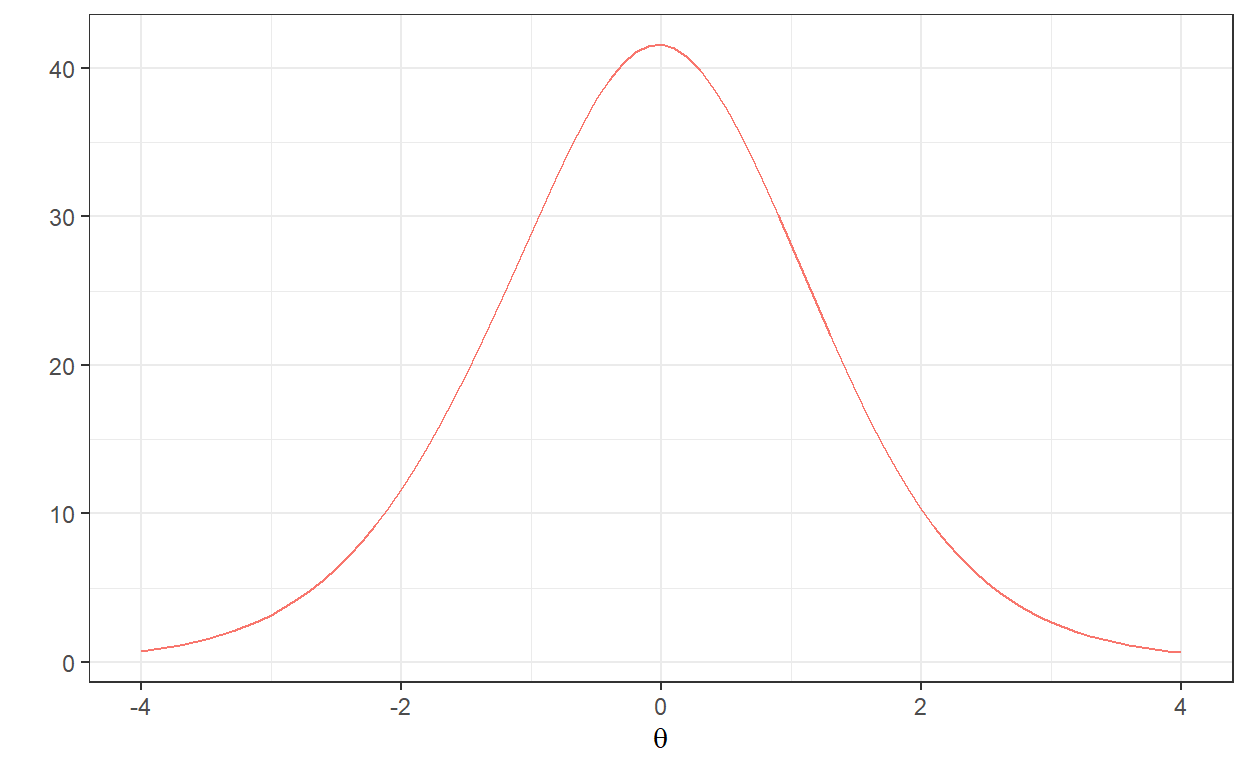
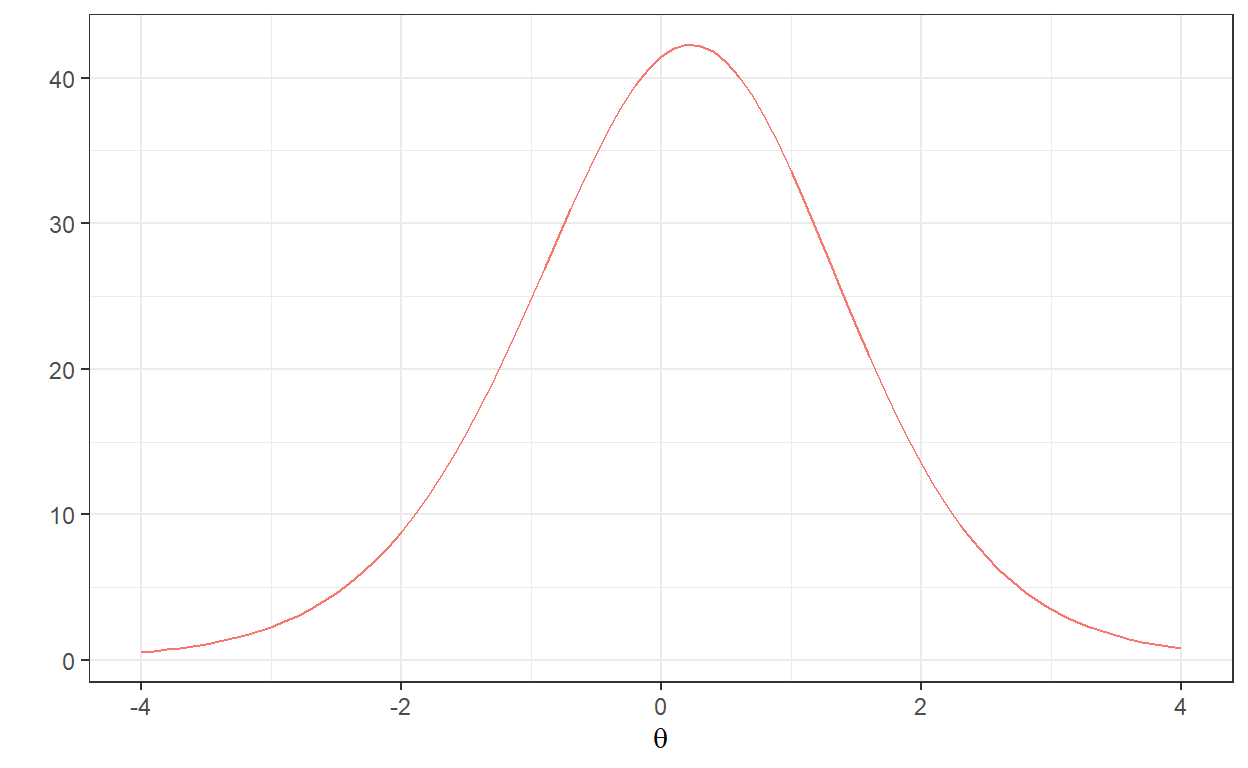
Initial commit

diff --git a/_posts/2020-12-23-reducing-the-number-of-items-automatically-part-i/reducing-the-number-of-items-automatically-part-i.html b/_posts/2020-12-23-reducing-the-number-of-items-automatically-part-i/reducing-the-number-of-items-automatically-part-i.html
@@ -119,7 +119,7 @@ code span.wa { color: #5e5e5e; font-style: italic; } /* Warning */
   <!--/radix_placeholder_rmarkdown_metadata-->
   
   <script type="text/json" id="radix-resource-manifest">
-  {"type":"character","attributes":{},"value":["photo_unsplash1.jpg","photo_unsplash2.jpg","reducing-the-number-of-items-automatically-part-i_files/anchor-4.2.2/anchor.min.js","reducing-the-number-of-items-automatically-part-i_files/bowser-1.9.3/bowser.min.js","reducing-the-number-of-items-automatically-part-i_files/distill-2.2.21/template.v2.js","reducing-the-number-of-items-automatically-part-i_files/figure-html5/unnamed-chunk-2-1.png","reducing-the-number-of-items-automatically-part-i_files/figure-html5/unnamed-chunk-2-2.png","reducing-the-number-of-items-automatically-part-i_files/jquery-1.11.3/jquery.min.js","reducing-the-number-of-items-automatically-part-i_files/webcomponents-2.0.0/webcomponents.js","reducingitems1.bib"]}
+  {"type":"character","attributes":{},"value":["photo_unsplash1.jpg","photo_unsplash2.jpg","reducing-the-number-of-items-automatically-part-i_files/anchor-4.2.2/anchor.min.js","reducing-the-number-of-items-automatically-part-i_files/bowser-1.9.3/bowser.min.js","reducing-the-number-of-items-automatically-part-i_files/distill-2.2.21/template.v2.js","reducing-the-number-of-items-automatically-part-i_files/figure-html5/unnamed-chunk-2-1.png","reducing-the-number-of-items-automatically-part-i_files/figure-html5/unnamed-chunk-2-2.png","reducing-the-number-of-items-automatically-part-i_files/figure-html5/unnamed-chunk-3-1.png","reducing-the-number-of-items-automatically-part-i_files/figure-html5/unnamed-chunk-4-1.png","reducing-the-number-of-items-automatically-part-i_files/jquery-1.11.3/jquery.min.js","reducing-the-number-of-items-automatically-part-i_files/webcomponents-2.0.0/webcomponents.js","reducingitems1.bib"]}
   </script>
   <!--radix_placeholder_navigation_in_header-->
   <!--/radix_placeholder_navigation_in_header-->
@@ -1457,10 +1457,9 @@ code span.wa { color: #5e5e5e; font-style: italic; } /* Warning */
 <h3>Contents</h3>
 <ul>
 <li><a href="#introduction">Introduction</a></li>
-<li><a href="#automated-test-assembly">Automated Test Assembly</a></li>
 <li><a href="#example">Example</a><ul>
-<li><a href="#item-response-theory">Item Response Theory</a></li>
-<li><a href="#classical-test-theory">Classical Test Theory</a></li>
+<li><a href="#automated-test-assembly">Automated Test Assembly</a></li>
+<li><a href="#recursive-feature-elimination">Recursive Feature Elimination</a></li>
 </ul></li>
 <li><a href="#conclusion">Conclusion</a></li>
 </ul>
@@ -1472,15 +1471,14 @@ code span.wa { color: #5e5e5e; font-style: italic; } /* Warning */
 <h2 id="introduction">Introduction</h2>
 <p>Since the COVID-19 pandemic started, many academic institutions around the world have promptly shifted in-person educational activities to the remote learning format. With the mandatory transition to remote learning, educators need to develop and administer online assessments (or e-assessments) because students are not able to physically attend classes in order to avoid the spread of the virus. When assessing student learning with online assessments, educators are recommended to avoid long, heavily-weighted exams and instead use shorter exams more frequently throughout the semester <span class="citation" data-cites="kuhfeld2020projecting">(e.g., Kuhfeld et al. <a href="#ref-kuhfeld2020projecting" role="doc-biblioref">2020</a>)</span>. Although this sounds like a good idea in theory, it is easier said than done in practice.</p>
 <p>To build shorter exams, educators first need to determine which items should be removed from the exams. In addition, they need to ensure that the reliability and other psychometric qualities (e.g., content distribution) of the shortened exam are acceptable. However, making such adjustments manually could be a tedious and time-consuming task. In this two-part blog series, I want to demonstrate how to shorten exams (or, any measurement instrument) by automatically selecting the most appropriate items.</p>
-<p><strong>In Part I</strong>, I will show how to employ automated test assembly and XXX as alternative methods to automatically build shorter versions of educational assessments (e.g., multiple-choice exams, tests, and quizzes).</p>
+<p><strong>In Part I</strong>, I will show how to employ automated test assembly and recursive feature elimination as alternative methods to automatically build shorter versions of educational assessments (e.g., multiple-choice exams, tests, and quizzes).</p>
 <p><strong>In Part II</strong>, I will demonstrate how to use more advanced algorithms, such as the ant colony optimization (ACO; 🐜) and genetic algorithm (GA; 🧬), for creating short forms of other types of instruments (e.g., psychological scales).</p>
 <p>Let’s get started 💪.</p>
-<h2 id="automated-test-assembly">Automated Test Assembly</h2>
-<p>Automated test assembly (or shortly, ATA) is.</p>
 <h2 id="example">Example</h2>
 <p>In this example, we will create a hypothetical assessment with 80 dichotomously-scored items. The items come from four content domains (labeled as “A”, “B”, “C”, and “D”) with 20 items per content domain.</p>
 <p>We will use the <code>xxIRT</code> package <span class="citation" data-cites="xxirt">(Luo <a href="#ref-xxirt" role="doc-biblioref">2019</a>)</span> for both data generation and automated test assembly.</p>
-<h3 id="item-response-theory">Item Response Theory</h3>
+<h3 id="automated-test-assembly">Automated Test Assembly</h3>
+<p>Automated test assembly (or shortly, ATA) is.</p>
 <div class="layout-chunk" data-layout="l-body">
 <div class="sourceCode">
 <pre><code><span class='kw'><a href='https://rdrr.io/r/base/library.html'>library</a></span><span class='op'>(</span><span class='st'><a href='https://github.com/xluo11/xxIRT'>"xxIRT"</a></span><span class='op'>)</span>
@@ -1492,12 +1490,11 @@ code span.wa { color: #5e5e5e; font-style: italic; } /* Warning */
   t_dist <span class='op'>=</span> <span class='fu'><a href='https://rdrr.io/r/base/c.html'>c</a></span><span class='op'>(</span><span class='fl'>0</span>, <span class='fl'>1</span><span class='op'>)</span>, <span class='co'># theta distribution as N(0, 1)</span>
   a_dist <span class='op'>=</span> <span class='fu'><a href='https://rdrr.io/r/base/c.html'>c</a></span><span class='op'>(</span><span class='op'>-</span><span class='fl'>0.1</span>, <span class='fl'>0.2</span><span class='op'>)</span>, <span class='co'># a parameter distribution</span>
   b_dist <span class='op'>=</span> <span class='fu'><a href='https://rdrr.io/r/base/c.html'>c</a></span><span class='op'>(</span><span class='fl'>0</span>, <span class='fl'>0.7</span><span class='op'>)</span>, <span class='co'># b parameter distribution</span>
-  c <span class='op'>=</span> <span class='fl'>0</span>, <span class='co'># fix c to zero (i.e., no guessing),</span>
-  missing <span class='op'>=</span> <span class='fl'>0.1</span> <span class='co'># 10% missingness</span>
+  c <span class='op'>=</span> <span class='fl'>0</span> <span class='co'># fix c to zero (i.e., no guessing)</span>
 <span class='op'>)</span>
 
 <span class='co'># Item parameters</span>
-<span class='va'>items</span> <span class='op'>&lt;-</span> <span class='fu'><a href='https://rdrr.io/r/base/with.html'>with</a></span><span class='op'>(</span><span class='va'>data</span>, <span class='fu'><a href='https://rdrr.io/r/base/data.frame.html'>data.frame</a></span><span class='op'>(</span>id<span class='op'>=</span><span class='fl'>1</span><span class='op'>:</span><span class='fl'>80</span>, a<span class='op'>=</span><span class='va'>a</span>, b<span class='op'>=</span><span class='va'>b</span>, c<span class='op'>=</span><span class='va'>c</span><span class='op'>)</span><span class='op'>)</span>
+<span class='va'>items</span> <span class='op'>&lt;-</span> <span class='fu'><a href='https://rdrr.io/r/base/with.html'>with</a></span><span class='op'>(</span><span class='va'>data</span>, <span class='fu'><a href='https://rdrr.io/r/base/data.frame.html'>data.frame</a></span><span class='op'>(</span>id<span class='op'>=</span><span class='fu'><a href='https://rdrr.io/r/base/paste.html'>paste0</a></span><span class='op'>(</span><span class='st'>"item"</span>, <span class='fl'>1</span><span class='op'>:</span><span class='fl'>80</span><span class='op'>)</span>, a<span class='op'>=</span><span class='va'>a</span>, b<span class='op'>=</span><span class='va'>b</span>, c<span class='op'>=</span><span class='va'>c</span><span class='op'>)</span><span class='op'>)</span>
 <span class='va'>items</span><span class='op'>$</span><span class='va'>content</span> <span class='op'>&lt;-</span> <span class='fu'><a href='https://rdrr.io/r/base/sample.html'>sample</a></span><span class='op'>(</span><span class='va'>LETTERS</span><span class='op'>[</span><span class='fl'>1</span><span class='op'>:</span><span class='fl'>4</span><span class='op'>]</span>, <span class='fl'>80</span>, replace<span class='op'>=</span><span class='cn'>TRUE</span><span class='op'>)</span>
 
 <span class='co'># Ability</span>
@@ -1523,33 +1520,111 @@ code span.wa { color: #5e5e5e; font-style: italic; } /* Warning */
 <span class='va'>x</span> <span class='op'>&lt;-</span> <span class='fu'><a href='https://rdrr.io/pkg/xxIRT/man/ata.html'>ata_solve</a></span><span class='op'>(</span><span class='va'>x</span>, <span class='st'>'lpsolve'</span><span class='op'>)</span>
 </code></pre>
 </div>
-<pre><code>optimal solution found, optimum: 11.63 (13.958, 2.327)</code></pre>
+<pre><code>optimal solution found, optimum: 11.71 (13.374, 1.659)</code></pre>
 <div class="sourceCode">
-<pre><code><span class='fu'><a href='https://rdrr.io/r/graphics/plot.default.html'>plot</a></span><span class='op'>(</span><span class='va'>x</span><span class='op'>)</span>
+<pre><code><span class='co'># Selected items</span>
+<span class='fu'><a href='https://rdrr.io/r/base/print.html'>print</a></span><span class='op'>(</span><span class='va'>x</span><span class='op'>$</span><span class='va'>items</span><span class='op'>)</span>
+</code></pre>
+</div>
+<pre><code>[[1]]
+       id      a        b c content form
+6   item6 1.2782  0.31715 0       B    1
+14 item14 1.0095 -0.86610 0       C    1
+17 item17 1.1145  0.30372 0       D    1
+20 item20 1.0680  0.33935 0       C    1
+21 item21 1.2981 -0.25718 0       D    1
+22 item22 1.1752  0.40938 0       A    1
+26 item26 1.2260 -0.03804 0       B    1
+27 item27 1.0225 -0.31218 0       D    1
+36 item36 0.9366 -0.37601 0       C    1
+37 item37 1.0340 -1.03206 0       B    1
+42 item42 1.1508 -0.17970 0       B    1
+45 item45 1.1892 -0.69959 0       C    1
+51 item51 1.2243 -1.04104 0       A    1
+60 item60 1.0476 -0.31009 0       A    1
+63 item63 1.0928 -0.44612 0       D    1
+65 item65 1.4103  0.45711 0       B    1
+67 item67 1.0703 -0.32247 0       D    1
+73 item73 1.3427  0.82061 0       C    1
+74 item74 1.0615  0.24292 0       A    1
+80 item80 1.1894  0.77169 0       A    1</code></pre>
+<div class="sourceCode">
+<pre><code><span class='co'># TIF for the selected items</span>
+<span class='fu'><a href='https://rdrr.io/r/base/with.html'>with</a></span><span class='op'>(</span><span class='va'>x</span><span class='op'>$</span><span class='va'>items</span><span class='op'>[[</span><span class='fl'>1</span><span class='op'>]</span><span class='op'>]</span>, 
+     <span class='fu'><a href='https://rdrr.io/pkg/xxIRT/man/model_3pl.html'>model_3pl_plot</a></span><span class='op'>(</span><span class='va'>a</span>, <span class='va'>b</span>, <span class='va'>c</span>, type<span class='op'>=</span><span class='st'>"info"</span>, total <span class='op'>=</span> <span class='cn'>TRUE</span><span class='op'>)</span><span class='op'>)</span>
 </code></pre>
 </div>
 <p><img src="reducing-the-number-of-items-automatically-part-i_files/figure-html5/unnamed-chunk-2-2.png" width="624" /></p>
 </div>
-<h3 id="classical-test-theory">Classical Test Theory</h3>
+<h3 id="recursive-feature-elimination">Recursive Feature Elimination</h3>
+<p>Recursive feature elimination (or shortly, RFE).</p>
+<p>To implement RFE for item selection, we will use the <code>randomForest</code> <span class="citation" data-cites="rf">(Liaw and Wiener <a href="#ref-rf" role="doc-biblioref">2002</a>)</span> and <code>caret</code> <span class="citation" data-cites="caret">(Kuhn <a href="#ref-caret" role="doc-biblioref">2020</a>)</span> packages in R.</p>
 <div class="layout-chunk" data-layout="l-body">
 <div class="sourceCode">
-<pre><code><span class='co'># Item difficulty (proportion-correct)</span>
-<span class='va'>items</span><span class='op'>$</span><span class='va'>difficulty</span> <span class='op'>&lt;-</span> <span class='fu'><a href='https://rdrr.io/r/base/apply.html'>apply</a></span><span class='op'>(</span><span class='va'>resp</span>, <span class='fl'>2</span>, 
-                          <span class='kw'>function</span><span class='op'>(</span><span class='va'>x</span><span class='op'>)</span> <span class='fu'><a href='https://rdrr.io/r/base/mean.html'>mean</a></span><span class='op'>(</span><span class='va'>x</span>, na.rm <span class='op'>=</span> <span class='cn'>TRUE</span><span class='op'>)</span><span class='op'>)</span> 
+<pre><code><span class='kw'><a href='https://rdrr.io/r/base/library.html'>library</a></span><span class='op'>(</span><span class='st'><a href='https://github.com/topepo/caret/'>"caret"</a></span><span class='op'>)</span>
+<span class='kw'><a href='https://rdrr.io/r/base/library.html'>library</a></span><span class='op'>(</span><span class='st'><a href='https://www.stat.berkeley.edu/~breiman/RandomForests/'>"randomForest"</a></span><span class='op'>)</span>
 
-<span class='co'># Discrimination (i.e., item-total correlation)</span>
-<span class='va'>score</span> <span class='op'>&lt;-</span> <span class='fu'><a href='https://rdrr.io/r/base/colSums.html'>rowSums</a></span><span class='op'>(</span><span class='va'>resp</span>, na.rm <span class='op'>=</span> <span class='cn'>TRUE</span><span class='op'>)</span>
-<span class='va'>items</span><span class='op'>$</span><span class='va'>discrimination</span> <span class='op'>&lt;-</span> <span class='fu'><a href='https://rdrr.io/r/base/apply.html'>apply</a></span><span class='op'>(</span><span class='va'>resp</span>, <span class='fl'>2</span>, 
-                              <span class='kw'>function</span><span class='op'>(</span><span class='va'>x</span><span class='op'>)</span> <span class='fu'><a href='https://rdrr.io/r/stats/cor.html'>cor</a></span><span class='op'>(</span><span class='va'>x</span>, <span class='va'>score</span>, use <span class='op'>=</span> <span class='st'>"pairwise.complete.obs"</span><span class='op'>)</span><span class='op'>)</span>
+<span class='co'># Compute raw scores</span>
+<span class='va'>score</span> <span class='op'>&lt;-</span> <span class='fu'><a href='https://rdrr.io/r/base/colSums.html'>rowSums</a></span><span class='op'>(</span><span class='va'>resp</span><span class='op'>)</span>
+
+<span class='co'># Define the control using a random forest selection function</span>
+<span class='va'>control</span> <span class='op'>&lt;-</span> <span class='fu'><a href='https://rdrr.io/pkg/caret/man/rfeControl.html'>rfeControl</a></span><span class='op'>(</span>functions <span class='op'>=</span> <span class='va'>rfFuncs</span>, 
+                      method <span class='op'>=</span> <span class='st'>"cv"</span>, <span class='co'># cross-validation</span>
+                      number <span class='op'>=</span> <span class='fl'>10</span><span class='op'>)</span> <span class='co'># the number of folds</span>
+
+<span class='co'># Run random forest for each content domain</span>
+<span class='va'>results_A</span> <span class='op'>&lt;-</span> <span class='fu'><a href='https://rdrr.io/pkg/caret/man/rfe.html'>rfe</a></span><span class='op'>(</span>x <span class='op'>=</span> <span class='va'>resp</span><span class='op'>[</span>,<span class='va'>items</span><span class='op'>[</span><span class='va'>items</span><span class='op'>$</span><span class='va'>content</span><span class='op'>==</span><span class='st'>"A"</span>,<span class='st'>"id"</span><span class='op'>]</span><span class='op'>]</span>, 
+                 y <span class='op'>=</span> <span class='va'>score</span>, 
+                 sizes <span class='op'>=</span> <span class='fl'>5</span>, 
+                 rfeControl <span class='op'>=</span> <span class='va'>control</span><span class='op'>)</span>
+
+<span class='va'>results_B</span> <span class='op'>&lt;-</span> <span class='fu'><a href='https://rdrr.io/pkg/caret/man/rfe.html'>rfe</a></span><span class='op'>(</span>x <span class='op'>=</span> <span class='va'>resp</span><span class='op'>[</span>,<span class='va'>items</span><span class='op'>[</span><span class='va'>items</span><span class='op'>$</span><span class='va'>content</span><span class='op'>==</span><span class='st'>"B"</span>,<span class='st'>"id"</span><span class='op'>]</span><span class='op'>]</span>, 
+                 y <span class='op'>=</span> <span class='va'>score</span>, 
+                 sizes <span class='op'>=</span> <span class='fl'>5</span>, 
+                 rfeControl <span class='op'>=</span> <span class='va'>control</span><span class='op'>)</span>
+
+<span class='va'>results_C</span> <span class='op'>&lt;-</span> <span class='fu'><a href='https://rdrr.io/pkg/caret/man/rfe.html'>rfe</a></span><span class='op'>(</span>x <span class='op'>=</span> <span class='va'>resp</span><span class='op'>[</span>,<span class='va'>items</span><span class='op'>[</span><span class='va'>items</span><span class='op'>$</span><span class='va'>content</span><span class='op'>==</span><span class='st'>"C"</span>,<span class='st'>"id"</span><span class='op'>]</span><span class='op'>]</span>, 
+                 y <span class='op'>=</span> <span class='va'>score</span>, 
+                 sizes <span class='op'>=</span> <span class='fl'>5</span>, 
+                 rfeControl <span class='op'>=</span> <span class='va'>control</span><span class='op'>)</span>
+
+<span class='va'>results_D</span> <span class='op'>&lt;-</span> <span class='fu'><a href='https://rdrr.io/pkg/caret/man/rfe.html'>rfe</a></span><span class='op'>(</span>x <span class='op'>=</span> <span class='va'>resp</span><span class='op'>[</span>,<span class='va'>items</span><span class='op'>[</span><span class='va'>items</span><span class='op'>$</span><span class='va'>content</span><span class='op'>==</span><span class='st'>"D"</span>,<span class='st'>"id"</span><span class='op'>]</span><span class='op'>]</span>, 
+                 y <span class='op'>=</span> <span class='va'>score</span>, 
+                 sizes <span class='op'>=</span> <span class='fl'>5</span>, 
+                 rfeControl <span class='op'>=</span> <span class='va'>control</span><span class='op'>)</span>
+
+<span class='va'>selected_items</span> <span class='op'>&lt;-</span> <span class='fu'><a href='https://rdrr.io/r/base/c.html'>c</a></span><span class='op'>(</span><span class='fu'><a href='https://rdrr.io/pkg/caret/man/predictors.html'>predictors</a></span><span class='op'>(</span><span class='va'>results_A</span><span class='op'>)</span><span class='op'>[</span><span class='fl'>1</span><span class='op'>:</span><span class='fl'>5</span><span class='op'>]</span>,
+                    <span class='fu'><a href='https://rdrr.io/pkg/caret/man/predictors.html'>predictors</a></span><span class='op'>(</span><span class='va'>results_B</span><span class='op'>)</span><span class='op'>[</span><span class='fl'>1</span><span class='op'>:</span><span class='fl'>5</span><span class='op'>]</span>,
+                    <span class='fu'><a href='https://rdrr.io/pkg/caret/man/predictors.html'>predictors</a></span><span class='op'>(</span><span class='va'>results_C</span><span class='op'>)</span><span class='op'>[</span><span class='fl'>1</span><span class='op'>:</span><span class='fl'>5</span><span class='op'>]</span>,
+                    <span class='fu'><a href='https://rdrr.io/pkg/caret/man/predictors.html'>predictors</a></span><span class='op'>(</span><span class='va'>results_D</span><span class='op'>)</span><span class='op'>[</span><span class='fl'>1</span><span class='op'>:</span><span class='fl'>5</span><span class='op'>]</span><span class='op'>)</span>
+
+
+<span class='fu'><a href='https://rdrr.io/r/base/print.html'>print</a></span><span class='op'>(</span><span class='va'>selected_items</span><span class='op'>)</span>
 </code></pre>
 </div>
+<pre><code> [1] &quot;item80&quot; &quot;item11&quot; &quot;item76&quot; &quot;item71&quot; &quot;item12&quot; &quot;item6&quot;  &quot;item65&quot;
+ [8] &quot;item59&quot; &quot;item26&quot; &quot;item18&quot; &quot;item20&quot; &quot;item14&quot; &quot;item73&quot; &quot;item50&quot;
+[15] &quot;item45&quot; &quot;item21&quot; &quot;item57&quot; &quot;item63&quot; &quot;item56&quot; &quot;item19&quot;</code></pre>
+<div class="sourceCode">
+<pre><code><span class='co'># TIF for the selected items</span>
+<span class='fu'><a href='https://rdrr.io/r/base/with.html'>with</a></span><span class='op'>(</span><span class='va'>items</span><span class='op'>[</span><span class='va'>items</span><span class='op'>$</span><span class='va'>id</span> <span class='op'>%in%</span> <span class='va'>selected_items</span>, <span class='op'>]</span>, 
+     <span class='fu'><a href='https://rdrr.io/pkg/xxIRT/man/model_3pl.html'>model_3pl_plot</a></span><span class='op'>(</span><span class='va'>a</span>, <span class='va'>b</span>, <span class='va'>c</span>, type<span class='op'>=</span><span class='st'>"info"</span>, total <span class='op'>=</span> <span class='cn'>TRUE</span><span class='op'>)</span><span class='op'>)</span>
+</code></pre>
+</div>
+<p><img src="reducing-the-number-of-items-automatically-part-i_files/figure-html5/unnamed-chunk-3-1.png" width="624" /></p>
 </div>
 <h2 id="conclusion">Conclusion</h2>
 <p>Xxx.</p>
-<div class="sourceCode" id="cb2"><pre class="sourceCode r distill-force-highlighting-css"><code class="sourceCode r"></code></pre></div>
+<div class="sourceCode" id="cb4"><pre class="sourceCode r distill-force-highlighting-css"><code class="sourceCode r"></code></pre></div>
 <div id="refs" class="references" role="doc-bibliography">
 <div id="ref-kuhfeld2020projecting">
 <p>Kuhfeld, Megan, James Soland, Beth Tarasawa, Angela Johnson, Erik Ruzek, and Jing Liu. 2020. “Projecting the Potential Impacts of Covid-19 School Closures on Academic Achievement.” EdWorkingPaper.</p>
+</div>
+<div id="ref-caret">
+<p>Kuhn, Max. 2020. <em>Caret: Classification and Regression Training</em>. <a href="https://CRAN.R-project.org/package=caret">https://CRAN.R-project.org/package=caret</a>.</p>
+</div>
+<div id="ref-rf">
+<p>Liaw, Andy, and Matthew Wiener. 2002. “Classification and Regression by randomForest.” <em>R News</em> 2 (3): 18–22. <a href="https://CRAN.R-project.org/doc/Rnews/">https://CRAN.R-project.org/doc/Rnews/</a>.</p>
 </div>
 <div id="ref-xxirt">
 <p>Luo, Xiao. 2019. <em>XxIRT: Item Response Theory and Computer-Based Testing in R</em>. <a href="https://CRAN.R-project.org/package=xxIRT">https://CRAN.R-project.org/package=xxIRT</a>.</p>
